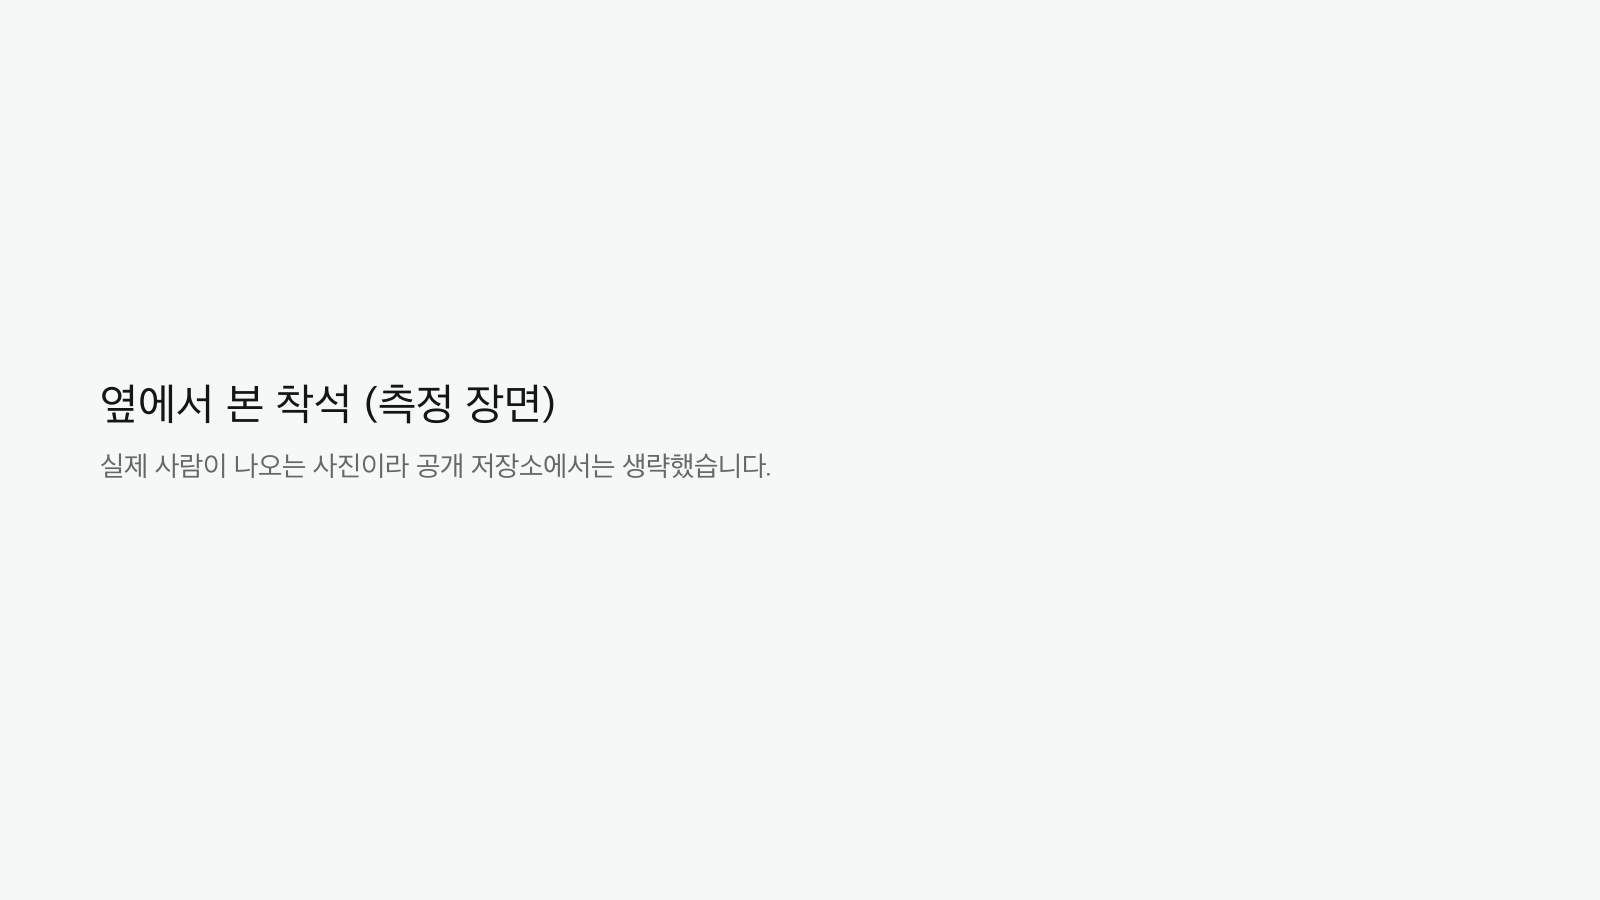
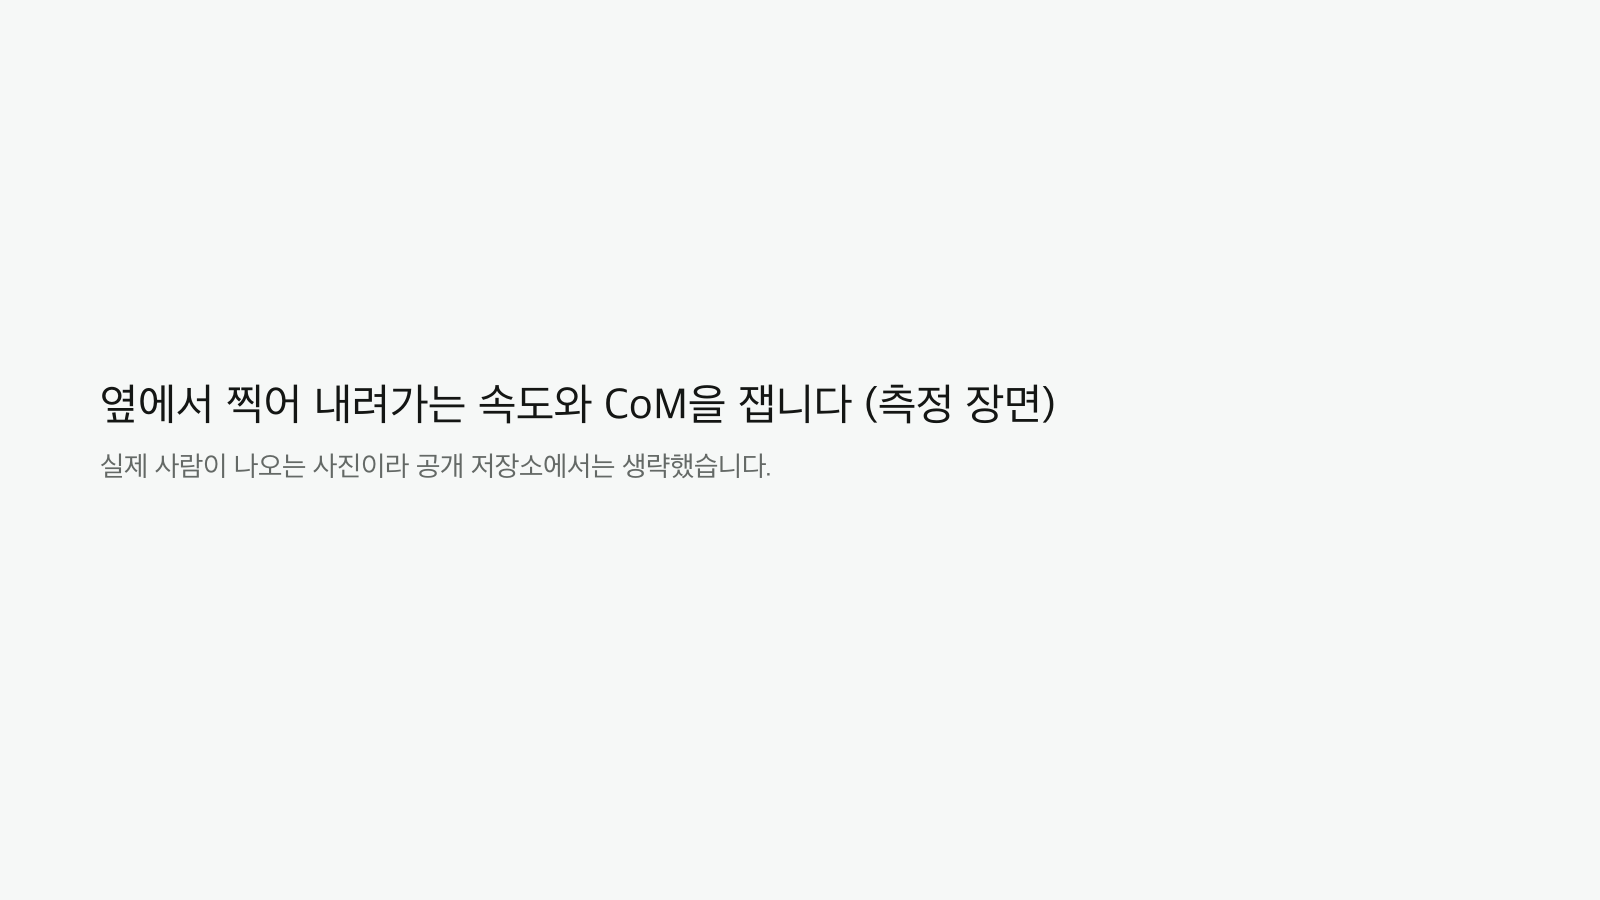
Slides: side-view scene states its purpose (descent speed and CoM)

Changed region(s): [[0.125, 0.4044, 0.6562, 0.4667]]

diff --git a/presentation/발표_흐름.md b/presentation/발표_흐름.md
@@ -27,7 +27,7 @@ Figma Slides: https://www.figma.com/slides/4tZDoTD6FXxpx83Z0kraKR
 | 16 | 간지 PART 03 | 데이터 분석 | 실험 프로토콜과 측정 장면 · H10 로그 · 카메라 동시 기록 · 전처리와 의자 높이별 비교 · 개인 기준 패턴 |
 | 17 | DATA_1 · PROTOCOL | 실험 프로토콜 | 누가(팀원 3명) · 어디에(45 vs 30 cm) · 어떻게(보조 OFF → ON, 30회씩) + 비교 지표 3개(착석 각도·닿는 순간 속도·상체 숙임) + 진행 상황 한 줄 |
 | 18 | DATA_2 · 측정 장면 (1/2) | H10을 입고 데이터 모으기 | 45 cm · 30 cm 의자에 앉는 데이터 수집 장면 스틸 (공개 저장소 생략) |
-| 19 | DATA_2 · 측정 장면 (2/2) | 옆에서 본 낮은 벤치 착석 | 옆 고정 카메라 스틸 4장 (공개 저장소 생략) |
+| 19 | DATA_2 · 측정 장면 (2/2) | 옆에서 찍어 내려가는 속도와 CoM을 잽니다 | 측면 촬영 목적: 하강 속도와 CoM 측정. 스틸 4장 (공개 저장소 생략) |
 | 20 | DATA_3 · H10 LOG | H10 로그 데이터 | 앱 CSV → 100 Hz → 앉기 검출 |
 | 21 | DATA_4 · CAMERA + H10 | 카메라와 H10을 함께 기록했습니다 | 측정 방법: 옆 고정 카메라 + H10 동시 기록, 그냥 10 · 털썩 11(보조 끔), 착석 순간(IMU 충격 = 영상 착석 프레임)으로 시간 맞춤, 허벅지 각도 r = 0.99 |
 | 22 | DATA_5 · PREPROCESSING | 전처리에서 마주친 세 가지 문제 | 실측은 시뮬레이션과 달랐음 → 세 가지 수정 |
